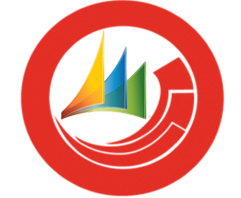
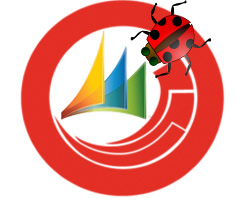
image amend

Changed region(s): [[0.5228, 0.0, 0.8714, 0.3636], [0.7552, 0.303, 0.8133, 0.3939], [0.639, 0.3636, 0.6971, 0.3939]]

diff --git a/source/_posts/sitecore-dynamics-connector-reset-error.md b/source/_posts/sitecore-dynamics-connector-reset-error.md
@@ -9,7 +9,7 @@ tags:
 - bug
 
 ---
-<img class="hero-img" src="/images/sitecore-dynamics.jpg" alt="Sitecore Microsoft Dynamics CRM">
+<img class="hero-img" src="/images/sitecore-dynamics-bug.jpg" alt="Sitecore Microsoft Dynamics CRM">
 ---
 Fix issue with CRM connector not removing contacts from marketing lists after syncing...
 <!-- more -->
